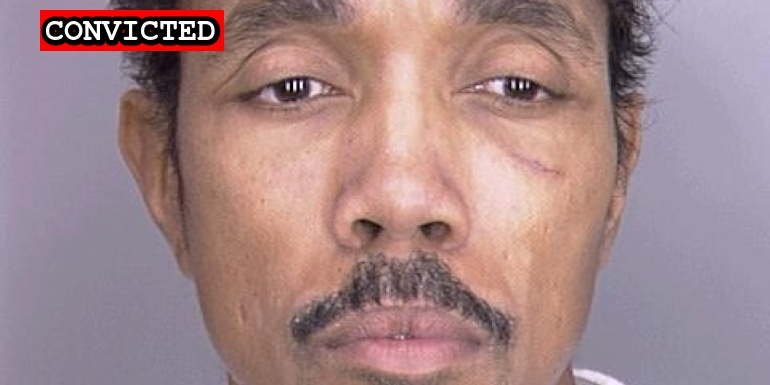
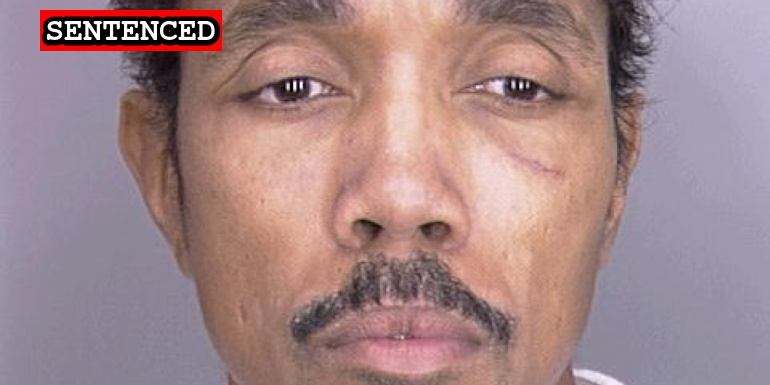
Smocks sentencing

Changed region(s): [[0.0312, 0.0312, 0.2494, 0.1247], [0.2805, 0.0312, 0.3117, 0.1247]]

diff --git a/docs/_suspects/troy-smocks.md b/docs/_suspects/troy-smocks.md
@@ -4,16 +4,16 @@ lastName: Smocks
 hashtag: TroySmocks
 aka: ColonelTPerez
 residence: Texas
-status: Convicted
+status: Sentenced
 date: 2021-01-15
 charged: 2021-01-15
 indicted: 2021-03-09
 convicted: 2021-09-29
-sentenced:
+sentenced: 2021-10-21
 dismissed:
 deceased:
 plea_hearing: 2021-09-29
-sentencing: 2021-10-20
+sentencing: 2021-10-21
 age: 58
 occupation:
 affiliations:
@@ -34,12 +34,15 @@ published: true
 caseNumber: 1:21-cr-198
 videos:
 charges:
-- code: 18 USC § 875(c)
-  title: Interstate Communication of Threats
-  url: https://www.law.cornell.edu/uscode/text/18/875
-  felony: true
+  - code: 18 USC § 875(c)
+    title: Interstate Communication of Threats
+    url: https://www.law.cornell.edu/uscode/text/18/875
+    felony: true
 sentence:
+  - 14 months in prison
+  - 3 years probation
 ---
+
 - [News Report](https://dfw.cbslocal.com/2021/01/19/capitol-rioter-dallas-troy-smocks-plans-return-dc-inauguration-day/)
 - [DOJ Press Release](https://www.justice.gov/usao-dc/pr/texas-man-arrested-and-charged-making-threats-regarding-events-us-capitol)
 - [Complaint](https://www.justice.gov/opa/page/file/1355891/download)

diff --git a/docs/_suspects/mark-leffingwell.md b/docs/_suspects/mark-leffingwell.md
@@ -8,11 +8,11 @@ status: Indicted
 date: 2021-01-07
 charged: 2021-01-07
 indicted: 2021-01-11
-convicted: 
-sentenced: 
-dismissed: 
+convicted:
+sentenced:
+dismissed:
 deceased:
-plea_hearing:
+plea_hearing: 2021-10-25
 sentencing:
 age: 51
 occupation:
@@ -36,6 +36,7 @@ videos:
 charges:
 sentence:
 ---
+
 - [News Report](https://www.seattletimes.com/seattle-news/crime/ex-washington-national-guardsman-among-first-indicted-in-attack-on-u-s-capitol/)
 - [DOJ Press Release](https://www.justice.gov/opa/pr/thirteen-charged-federal-court-following-riot-united-states-capitol)
 - [Complaint](https://www.justice.gov/opa/press-release/file/1351671/download)
